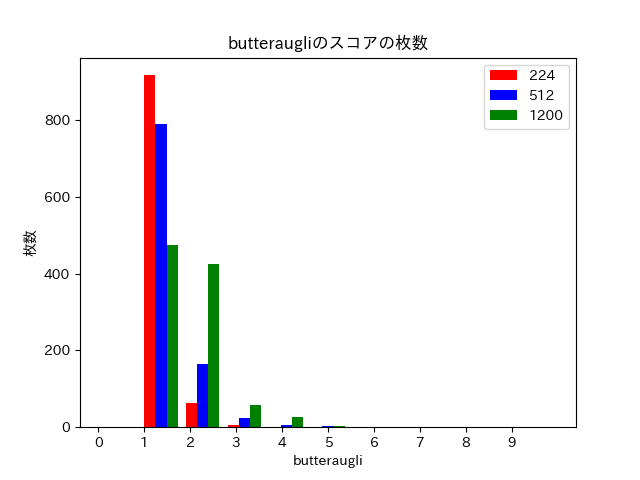
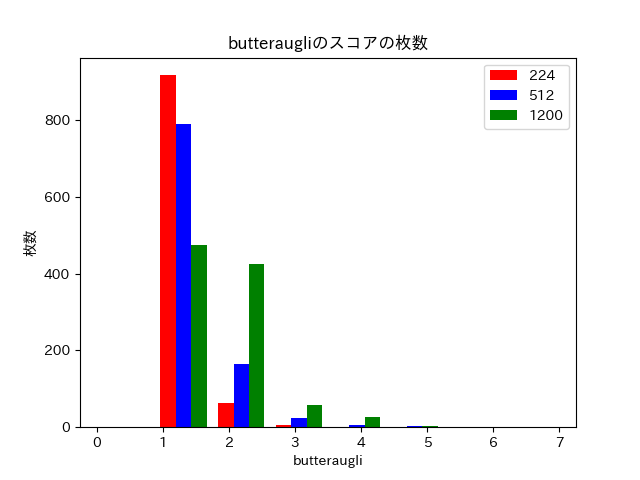
add

diff --git a/biscotti/biscotti.cc b/biscotti/biscotti.cc
@@ -30,15 +30,6 @@
 
 namespace {
 
-constexpr int kDefaultJPEGQuality = 95;
-
-// An upper estimate of memory usage of Guetzli. The bound is
-// max(kLowerMemusaeMB * 1<<20, pixel_count * kBytesPerPixel)
-constexpr int kBytesPerPixel = 350;
-constexpr int kLowestMemusageMB = 100; // in MB
-
-constexpr int kDefaultMemlimitMB = 6000; // in MB
-
 inline uint8_t BlendOnBlack(const uint8_t val, const uint8_t alpha) {
   return (static_cast<int>(val) * static_cast<int>(alpha) + 128) / 255;
 }
@@ -206,23 +197,15 @@ void WriteFileOrDie(const char* filename, const std::string& contents) {
 }
 
 void TerminateHandler() {
-  fprintf(stderr, "Unhandled exception. Most likely insufficient memory available.\n"
-          "Make sure that there is 300MB/MPix of memory available.\n");
+  fprintf(stderr, "Unhandled exception. Most likely insufficient memory available.\n");
   exit(1);
 }
 
 void Usage() {
   fprintf(stderr,
-      "Guetzli JPEG compressor. Usage: \n"
-      "guetzli [flags] input_filename output_filename model_path\n"
-      "\n"
-      "Flags:\n"
-      "  --verbose    - Print a verbose trace of all attempts to standard output.\n"
-      "  --quality Q  - Visual quality to aim for, expressed as a JPEG quality value.\n"
-      "                 Default value is %d.\n"
-      "  --memlimit M - Memory limit in MB. Guetzli will fail if unable to stay under\n"
-      "                 the limit. Default limit is %d MB.\n"
-      "  --nomemlimit - Do not limit memory usage.\n", kDefaultJPEGQuality, kDefaultMemlimitMB);
+      "Biscotti JPEG compressor. Usage: \n"
+      "biscotti [flags] input_filename[.jpg/.png] output_filename[.jpg/.png] model_path\n"
+      "\n");
   exit(1);
 }
 
@@ -232,44 +215,14 @@ int main(int argc, char** argv) {
   std::set_terminate(TerminateHandler);
 
   int verbose = 0;
-  int quality = kDefaultJPEGQuality;
-  int memlimit_mb = kDefaultMemlimitMB;
 
-  // ここも消せそう
-  int opt_idx = 1;
-  for(;opt_idx < argc;opt_idx++) {
-    if (strnlen(argv[opt_idx], 2) < 2 || argv[opt_idx][0] != '-' || argv[opt_idx][1] != '-')
-      break;
-    if (!strcmp(argv[opt_idx], "--verbose")) {
-      verbose = 1;
-    } else if (!strcmp(argv[opt_idx], "--quality")) {
-      opt_idx++;
-      if (opt_idx >= argc)
-        Usage();
-      quality = atoi(argv[opt_idx]);
-    } else if (!strcmp(argv[opt_idx], "--memlimit")) {
-      opt_idx++;
-      if (opt_idx >= argc)
-        Usage();
-      memlimit_mb = atoi(argv[opt_idx]);
-    } else if (!strcmp(argv[opt_idx], "--nomemlimit")) {
-      memlimit_mb = -1;
-    } else if (!strcmp(argv[opt_idx], "--")) {
-      opt_idx++;
-      break;
-    } else {
-      fprintf(stderr, "Unknown commandline flag: %s\n", argv[opt_idx]);
-      Usage();
-    }
-  }
-
-  if (argc - opt_idx != 3) {
+  if (argc != 4) {
     Usage();
   }
 
-  std::string in_data = ReadFileOrDie(argv[opt_idx]);
-  std::string filename = std::string(argv[opt_idx]);
-  std::string model_path = std::string(argv[opt_idx + 2]);
+  std::string in_data = ReadFileOrDie(argv[1]);
+  std::string filename = std::string(argv[1]);
+  std::string model_path = std::string(argv[3]);
   std::string out_data;
 
   biscotti::Params params;
@@ -284,6 +237,7 @@ int main(int argc, char** argv) {
   static const unsigned char kPNGMagicBytes[] = {
       0x89, 'P', 'N', 'G', '\r', '\n', 0x1a, '\n',
   };
+  
   if (in_data.size() >= 8 &&
       memcmp(in_data.data(), kPNGMagicBytes, sizeof(kPNGMagicBytes)) == 0) {
     int xsize, ysize;
@@ -292,15 +246,8 @@ int main(int argc, char** argv) {
       fprintf(stderr, "Error reading PNG data from input file\n");
       return 1;
     }
-    double pixels = static_cast<double>(xsize) * ysize;
-    if (memlimit_mb != -1
-        && (pixels * kBytesPerPixel / (1 << 20) > memlimit_mb
-            || memlimit_mb < kLowestMemusageMB)) {
-      fprintf(stderr, "Memory limit would be exceeded. Failing.\n");
-      return 1;
-    }
     if (!biscotti::Process(params, &stats, rgb, xsize, ysize, &out_data)) {
-      fprintf(stderr, "Guetzli processing failed\n");
+      fprintf(stderr, "Biscotti processing failed\n");
       return 1;
     }
   } else {
@@ -309,19 +256,12 @@ int main(int argc, char** argv) {
       fprintf(stderr, "Error reading JPG data from input file\n");
       return 1;
     }
-    double pixels = static_cast<double>(jpg_header.width) * jpg_header.height;
-    if (memlimit_mb != -1
-        && (pixels * kBytesPerPixel / (1 << 20) > memlimit_mb
-            || memlimit_mb < kLowestMemusageMB)) {
-      fprintf(stderr, "Memory limit would be exceeded. Failing.\n");
-      return 1;
-    }
     if (!biscotti::Process(params, &stats, in_data, &out_data)) {
-      fprintf(stderr, "Guetzli processing failed\n");
+      fprintf(stderr, "Biscotti processing failed\n");
       return 1;
     }
   }
 
-  WriteFileOrDie(argv[opt_idx + 1], out_data);
+  WriteFileOrDie(argv[2], out_data);
   return 0;
 }

diff --git a/src/resize_validation.py b/src/resize_validation.py
@@ -1,0 +1,32 @@
+import argparse
+import cv2
+import os
+
+def main(validation_dir, size):
+  assert(size == 224 or size == 512 or size == 1200)
+  images = os.listdir(validation_dir)
+  for image in images:
+    print(image)
+    cv_img = cv2.imread(validation_dir + image)
+    if cv_img is None:
+      os.system("rm " + validation_dir + image)
+      continue
+    resized_img = cv2.resize(cv_img, (size, size))
+    if size == 224:
+      save_dir = "validations/images224/"
+    elif size == 512:
+      save_dir = "validations/images512/"
+    else:
+      save_dir = "validations/images1200/"
+    cv2.imwrite(save_dir + image, resized_img)
+    print(image, ", done!")
+
+
+if __name__ == "__main__":
+  parser = argparse.ArgumentParser(description="resize images")
+  parser.add_argument("--size", "-s", type=int,
+                      required=True, help="resize image size")
+  parser.add_argument("--validation_dir", "-v", type=str,
+                      default="validations/images1200/", help="validation image directory")
+  args = parser.parse_args()
+  main(args.validation_dir, args.size)

diff --git a/src/helper.py b/src/helper.py
@@ -1,0 +1,31 @@
+import cv2
+import numpy as np
+import os
+
+def change_image_size_to_dct(image):
+    row = image.shape[0]
+    col = image.shape[1]
+
+    mod_r_8 = row % 8
+    mod_c_8 = col % 8
+
+    r_padding = 0
+    c_padding = 0
+
+    if mod_r_8 != 0:
+        r_padding += (8 - mod_r_8)
+        
+    if mod_c_8 != 0:
+        c_padding += (8 - mod_c_8)
+        
+    foundation = np.zeros((row+r_padding, col+c_padding, 3))
+    foundation[:image.shape[0], :image.shape[1], :image.shape[2]] = image
+    print("before row, col (", row, ", ", col, " )")
+    print("after  row col (", row+r_padding, ", ", col+c_padding, " )")
+    return foundation
+
+if __name__ == "__main__":
+    image = cv2.imread("test/13.jpg")
+    img_for_dct = change_image_size_to_dct(image)
+    resized224_img = cv2.resize(img_for_dct, (224, 224))
+    cv2.imwrite("test/img224_13.jpg", resized224_img)

diff --git a/src/get_images.py b/src/get_images.py
@@ -1,0 +1,23 @@
+import requests
+import time
+
+def main():
+  with open("debug/urls_txt.txt", "r") as f:
+    data = f.readlines()
+    urls = data[-1000:]
+    # import ipdb; ipdb.set_trace()
+
+    for url in urls:
+      id, url = url.split("\t")
+      url = url.replace("\n", "")
+      params = {'User-Agent' : "Mozilla/5.0 (Windows NT 10.0; WOW64) AppleWebKit/537.36 (KHTML, like Gecko) Chrome/51.0.2704.84 Safari/537.36",
+                "Referer" : url}
+      response = requests.get(url, headers=params)
+      with open("validations/" + id + ".jpg", "wb") as f:
+        f.write(response.content)
+      
+      time.sleep(2)
+      print(id + ", done!")
+
+if __name__ == "__main__":
+  main()

diff --git a/src/convert.py b/src/convert.py
@@ -1,0 +1,21 @@
+import numpy as np
+import pandas as pd
+import argparse
+
+def main():
+    guetzli = pd.read_csv('csv/0.csv', header=None).get_values()
+    seq = int(guetzli.shape[0] * (2/3))
+    coeff_y, coeff_cbcr = guetzli[:seq], guetzli[seq:]
+    coeff_cb = coeff_cbcr[:int(seq/4)]
+    coeff_cr = coeff_cbcr[int(seq/4):]
+
+    y_df = pd.DataFrame(coeff_y)
+    cb_df = pd.DataFrame(coeff_cb)
+    cr_df = pd.DataFrame(coeff_cr)
+
+    y_df.to_csv("csv/0_biscotti_y.csv", header=None, index=None)
+    cb_df.to_csv("csv/0_biscotti_cb.csv", header=None, index=None)
+    cr_df.to_csv("csv/0_biscotti_cr.csv", header=None, index=None)
+
+if __name__ == "__main__":
+    main()

diff --git a/src/plot_results.py b/src/plot_results.py
@@ -96,8 +96,8 @@ def main():
   plt.ylabel("枚数")
   plt.xlabel("butteraugli")
   plt.xticks(np.arange(0, 10.0, 1.0))
-  plt.hist([histos[0], histos[1], histos[2]], bins=11, align='mid', rwidth=0.8,
-    color=['red', 'blue', 'green'], label=['224', '512', '1200'], range=(0, 10))
+  plt.hist([histos[0], histos[1], histos[2]], bins=8, align='mid', rwidth=0.8,
+    color=['red', 'blue', 'green'], label=['224', '512', '1200'], range=(0, 7))
   plt.legend(loc="upper right")
   plt.savefig("results/biscotti_histogram.png")
 
